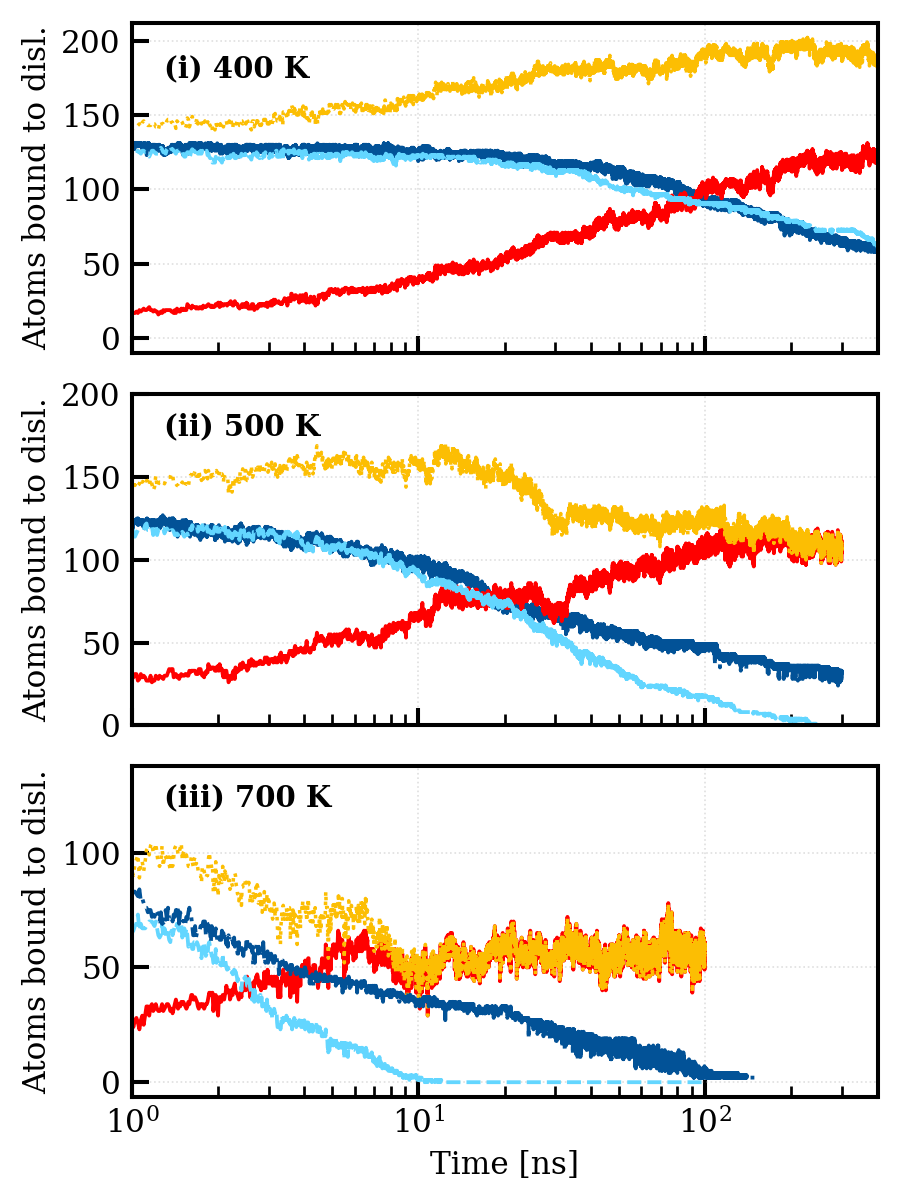
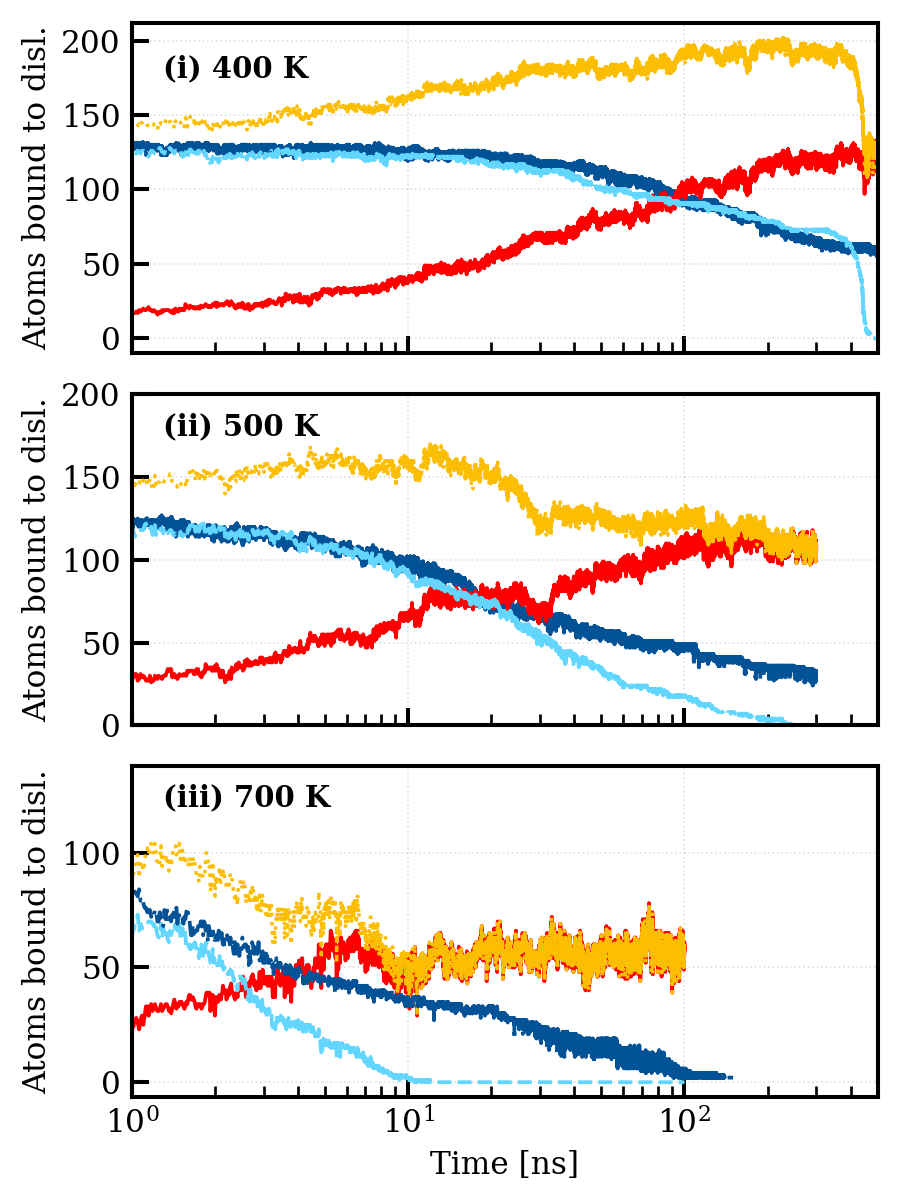
general fixes

diff --git a/5_Results.tex b/5_Results.tex
@@ -4,13 +4,17 @@
 
 % ----------------------------------------------------------------------------------
 \section{Vacancies}
+\label{Section:Vac_results}
 % ----------------------------------------------------------------------------------
 In Fig. \ref{Fig:1Vac_results} and \ref{Fig:2Vac_results} we can see the number of T and H atoms bound to the mono- and divacancies as a function of time and at different temperatures. 
 For comparison, the results of the monoisotopic, 'vacuum annealing', simulations are also shown. 
 We can see that at all three temperatures, T-removal from the monovacancy occurs at a higher rate when isotope exchange is used, compared to the monoisotopic cases.
-For the divacancies (Fig. \ref{Fig:2Vac_results}), the T-removal using isotope exchange occurs nearly as fast as in the monovacancy case, despite starting with nearly twice the amount T. 
-While the difference in both cases is more prominent at lower temperatures, it is noticeable also at 500 K, where removal through pure diffusion starts to play a significant role.
 Despite us aiming mainly for qualitative results, a semi-quantitative comparison reveals the T-removal rate to be around 50 times higher when employing isotope exchange compared to monoisotopic simulations in monovacancies. 
+For the isotope exchange case at 500 K, the normalised T-removal rate, $\delta_{\text{T}}$, was determined to be 0.009 atoms/ns.
+
+Compared to the monovacancies, T-removal using isotope exchange occurs in divacancies (Fig. \ref{Fig:2Vac_results}) at a slightly higher normalised T-removal rate of $\delta_{\text{T}} = 0.01$ atoms/ns.
+
+While the difference in both cases is more prominent at lower temperatures, it is noticeable also at 500 K, where removal through pure diffusion starts to play a significant role.
 
 \begin{figure}[!ht]
 \begin{subfigure}{.5\textwidth}
@@ -25,7 +29,7 @@ Despite us aiming mainly for qualitative results, a semi-quantitative comparison
   \caption{Linear time scale}
   %\label{fig:sub-second}
 \end{subfigure}
-\caption{Number of H and T atoms bound to the monovacancy for isotope exchange and monoisotopic diffusion simulations. The number of trapped T in the monovacancy decreases much faster in the simulations with isotope exchange, compared to the monoisotopic cases.}
+\caption{Number of H and T atoms bound to the monovacancy for isotope exchange and monoisotopic diffusion simulations. The number of trapped T in the monovacancy decreases much faster in the simulations with isotope exchange, compared to the monoisotopic cases. The linear time scale plots are shown for qualitative comparison only.}
  \label{Fig:1Vac_results} 
 \end{figure}
 
@@ -43,7 +47,7 @@ Despite us aiming mainly for qualitative results, a semi-quantitative comparison
   \caption{Linear time scale}
   %\label{fig:sub-second}
 \end{subfigure}
-   \caption{Number of H and T atoms bound to the divacancy for isotope exchange and monoisotopic diffusion simulations. Despite the nearly doubled number of T, the removal with isotope exchange occurs at a similar rate than in the monovacancy simulations.}
+   \caption{Number of H and T atoms bound to the divacancy for isotope exchange and monoisotopic diffusion simulations. Despite the nearly doubled number of T, the removal with isotope exchange occurs at a similar rate than in the monovacancy simulations. The linear time scale plots are shown for qualitative comparison only.}
    \label{Fig:2Vac_results} 
 \end{figure}
 
@@ -88,7 +92,7 @@ At 400 K, on the other hand, there is no significant difference between the two 
 
 Comparing the T-removal rates at 700 K, we can conclude that total T-removal occurs around 10 times faster in the isotope exchange case compared to the monoisotopic case.
 In comparison to the vacancy results in Fig. \ref{Fig:1Vac_results} and \ref{Fig:2Vac_results}, the overall T-removal rate for a dislocation appears to exceed that observed in the vacancies for both the isotope exchange and monoisotopic cases.
-E.g. for the isotope exchange cases at 500 K we have normalised average T-removal rates, $\delta_{\text{T}}$, of 0.003 and 0.01 atoms/ns for a dislocation and a monovacancy, respectively.
+The normalised T-removal rate for dislocations at 500 K was $\delta_{\text{T}} = 0.003$ atoms/ns, when isotope exchange was used.
 
 Fig. \ref{Fig:disloc_results} additionally reveals that the total number of H and T bound to the defect increases slightly during the isotope exchange simulation, possibly due to insufficient saturation runs. 
 
@@ -107,7 +111,7 @@ Fig. \ref{Fig:disloc_results} additionally reveals that the total number of H an
   \caption{Linear time scale}
   %\label{fig:sub-second}
 \end{subfigure}
-   \caption{Number of H and T atoms bound to the dislocation for isotope exchange and monoisotopic diffusion simulations}
+   \caption{Number of H and T atoms bound to the dislocation for isotope exchange and monoisotopic diffusion simulations. The linear time scale plots are shown for qualitative comparison only.}
    \label{Fig:disloc_results} 
 \end{figure}
 
@@ -119,8 +123,7 @@ Fig. \ref{Fig:disloc_results} additionally reveals that the total number of H an
 The grain boundary results are shown in Fig. \ref{Fig:GB_results}. 
 Similarly to the dislocation case, a significant increase in the T-removal rate can be observed when isotope exchange is used at temperatures of at least 500 K.
 The exact difference in removal rates was difficult to determine without excessive use of computing resources, but can be clearly seen from Fig. \ref{Fig:GB_results} to be several orders of magnitude higher for the isotope exchange simulations.
-
-The normalised T-removal rate at 500 K was around $\delta_{\text{T}} = 0.0017$ atoms/ns, i.e. close to six times lower than the corresponding value for the monovacancy and half that of the dislocation.
+The normalised T-removal rate at 500 K appears to be around $\delta_{\text{T}} = 0.0017$ atoms/ns.
 
 \begin{figure}[!ht]
 \begin{subfigure}{.5\textwidth}
@@ -135,7 +138,7 @@ The normalised T-removal rate at 500 K was around $\delta_{\text{T}} = 0.0017$ a
   \caption{Linear time scale}
   %\label{fig:sub-second}
 \end{subfigure}
-   \caption{Number of H and T atoms bound to the grain boundary for isotope exchange and monoisotopic diffusion simulations}
+   \caption{Number of H and T atoms bound to the grain boundary for isotope exchange and monoisotopic diffusion simulations. The linear time scale plots are shown for qualitative comparison only.}
    \label{Fig:GB_results} 
 \end{figure}
 
@@ -146,4 +149,8 @@ The normalised T-removal rate at 500 K was around $\delta_{\text{T}} = 0.0017$ a
 The isotope exchange mechanism has now been confirmed to occur in monovacancies and vacancy clusters. 
 The effect has also been observed in dislocations and grain boundaries, but is not as pronounced in these more extensive defects, probably due to their larger hydrogen trapping capacity and the almost continuous binding energy range of about 0 to 0.9 eV \cite{grigorev2015interaction}.
 
+Comparing the normalised T-removal rates of the various defect types, we see that the removal occurs fastest in vacancies ($\delta_{\text{T}} = 0.01$ atoms/ns) and slowest in grain boundaries ($\delta_{\text{T}} = 0.0017$ atoms/ns). 
+Dislocations ($\delta_{\text{T}} = 0.003$ atoms/ns) fell in between the other two, with a normalised removal rate almost twice that of the grain boundary, but less than half of the rate observed for the vacancy.
 
+The validity of the results presented in this thesis is discussed for the vacancy case in section \ref{Section:Vac_results}, but can be generalised to also apply for the other two defect types. 
+Although a direct comparison with experiments is difficult due to the small scale -- both time- and lengthwise -- of the simulations, the qualitative aspects of our results seem to agree with experimental studies such as \cite{alimov2011hydrogen}, \cite{roth2013hydrogen}, \cite{barton2014deuterium} and \cite{ahlgren2019hydrogen}. 

diff --git a/2_Theory.tex b/2_Theory.tex
@@ -9,7 +9,7 @@ At a subatomic level, nuclear fusion is governed by two separate fundamental int
 Due to their small size and the low number of protons, nuclei of elements lighter than nickel and iron can overcome the electromagnetic repulsion barrier and fuse into a single nucleus, typically releasing orders of magnitude more energy than any process involving chemical bonds.
 
 Since the nuclei have to be brought to within around $10^{-15}$ m from each other in order for the short-ranged strong interaction to outweigh the electromagnetic repulsion, the process of forcing together even the lightest nuclei requires substantial amounts of energy.  
-At the cores of stars, the immense pressure combined with temperatures of the order of $10^6$ K brings hydrogen atoms close enough for some of them to cross the repulsion barrier through the quantum mechanical effect of tunnelling \cite{clayton1983principles}.
+At the cores of stars, the immense pressure combined with temperatures of the order of $10^6$ K brings hydrogen atoms close enough for some of them to cross the repulsion barrier through the quantum mechanical effect of tunneling \cite{clayton1983principles}.
 Without the gravitational mass of a star compressing the fuel, however, we have to rely on various 'dirty tricks' to achieve conditions suitable for a self-sustaining fusion reaction. 
 Magnetic Confinement Fusion (MCF), seen generally as the most promising of such tricks, exploits the fact that charged particles can be manipulated using magnetic fields. 
 The fuel is heated to temperatures around $10^7$ K, at which point the electrons and nuclei of the fuel atoms will have separated, transitioning into plasma. 
@@ -108,8 +108,8 @@ In contrast to the vast majority of elements, the relative differences in mass b
 These mass differences result in, e.g. the isotopes having noticeably different diffusion rates.
 
 Out of these three isotopes, tritium is the by far scarcest. 
-Having a half-life of only 12.3 years, it is formed only in miniscule amounts in the atmosphere through interactions with cosmic rays.
-In fusion reactors, where tritium will be present in relative abundance, the trapping of this radioactive substance into wall materials can over time become a safety issue; although tritium is a low-energy beta emitter and thus not externally harmful to humans, it is easily inhaled, ingested or absorbed through the skin, potentialy causing radiation damage to internal organs and tissues \cite{tritiumHealth}.
+Having a half-life of only 12.3 years, it is formed only in minuscule amounts in the atmosphere through interactions with cosmic rays.
+In fusion reactors, where tritium will be present in relative abundance, the trapping of this radioactive substance into wall materials can over time become a safety issue; although tritium is a low-energy beta emitter and thus not externally harmful to humans, it is easily inhaled, ingested or absorbed through the skin, potentially causing radiation damage to internal organs and tissues \cite{tritiumHealth}.
 In addition to the safety concern associated with handling and maintaining tritium infused components, there is also an obvious fuel economical incentive of retrieving the embedded tritium.
 
 The proposed methods of detrapping and extracting hydrogen isotopes from materials typically focus on annealing, i.e. heating and slowly cooling a material, to facilitate the detrapping and diffusion of hydrogen atoms. 

diff --git a/1_Introduction.tex b/1_Introduction.tex
@@ -12,7 +12,7 @@ The plasma-facing surfaces of a fusion reactor are therefore subject to a consta
 Due to their electrical neutrality, neutrons interact only to a negligible degree with electrons, limiting their interactions with atoms to the highly improbable collisions with atomic nuclei. 
 Neutrons can thus penetrate several meters into the reactor walls, extending the damage from the surface, deep into the bulk material. 
 
-Chosen for its high resistance against erosion by energetic ions and neutrons, tungsten (W) is the primary armour material candidate for the divertor of the groundbreaking ITER tokamak being constructed in southern France \cite{hirai2013iter}. % [brief description of divertors and/or ITER?]
+Chosen for its high resistance against erosion by energetic ions and neutrons, tungsten (W) is the primary armour material candidate for the divertor of the groundbreaking ITER tokamak being constructed in southern France \cite{hirai2013iter}.
 It has, however, been shown that hydrogen isotopes can easily diffuse deep into bulk W, while crystallographic defects, such as those produced by the neutron radiation, enhance the retention of hydrogen within the material. \cite{tanabe2014review} 
 This trapping mechanism tends to lead to an accumulation of hydrogen, including the radioactive isotope tritium (T), from the fusion fuel into the plasma-facing reactor components, rendering them radioactive over time. 
 The inventory of embedded tritium is, therefore, a critical safety concern, but also a matter of fuel economy, since tritium is extremely rare and among the most expensive substances found on Earth.
@@ -26,7 +26,7 @@ Conveniently, it has been shown \cite{alimov2011hydrogen, roth2013hydrogen, bart
 This method makes use of the spontaneous replacement of tritium with a cheaper and safer isotope, protium (H, $^1_1$H), in a process aptly referred to as 'isotope exchange'. 
 Experiments conducted with the non-radioactive hydrogen isotope deuterium, have indicated a near-perfect D removal after 24 h of annealing at 520 K under a H$_2$ atmosphere, while a similar removal rate using traditional vacuum annealing would require temperatures of around 700 K. \cite{ahlgren2019hydrogen}
 
-Experimental studies of hydrogen isotope exchange in tugsten have been conducted by e.g. Alimov \textit{et al.} \cite{alimov2011hydrogen}, Roth \textit{et al.}  \cite{roth2013hydrogen}, Barton \textit{et al.} \cite{barton2014deuterium} and Ahlgren \textit{et al.} \cite{ahlgren2019hydrogen}. 
+Experimental studies of hydrogen isotope exchange in tungsten have been conducted by e.g. Alimov \textit{et al.} \cite{alimov2011hydrogen}, Roth \textit{et al.}  \cite{roth2013hydrogen}, Barton \textit{et al.} \cite{barton2014deuterium} and Ahlgren \textit{et al.} \cite{ahlgren2019hydrogen}. 
 The phenomenon has also been modelled on a macroscopic scale by Hodille \textit{et al.} \cite{hodille2016study} using Macroscopic Rate Equation models, based on experimental results as well as Density Functional Theory (DFT) data on the behaviour of hydrogen near tungsten monovacancies. 
 The isotope exchange occurring around a single crystal defect is likely to occur on a timescale of nano- to microseconds, but such scales are far beyond the reach of current DFT methods, while tools such as Rate Equations lack the atomic level insight to the studied mechanism.
 

diff --git a/3_Methods.tex b/3_Methods.tex
@@ -108,7 +108,7 @@ cloud/.style = {draw, ellipse,fill=red!20, node distance=3cm,
 \draw [>=latex,->] (m-7-1.south) -- node[right] {yes}(m-8-1);
 \end{tikzpicture}
 \endgroup
-\caption{A flowchart representation of a typical Molecular Dynamics simulation. Above, $f$ and $g$ refer to two different functions of the timestep and the acceleration. In the most simple case these would be $f(\mathbf{a}_i,\Delta t) = \mathbf{v}_i\Delta t + \mathbf{a}_i\Delta t^2$ and $g(\mathbf{a}_i,\Delta t) = \mathbf{a}_i\Delta t$, respectively.} 
+\caption{A flowchart representation of a typical Molecular Dynamics simulation. Above, $f$ and $g$ refer to two different functions of the time step and the acceleration. In the most simple case these would be $f(\mathbf{a}_i,\Delta t) = \mathbf{v}_i\Delta t + \mathbf{a}_i\Delta t^2$ and $g(\mathbf{a}_i,\Delta t) = \mathbf{a}_i\Delta t$, respectively.} 
 \label{MD-schema}
 \end{center}
 \end{figure}
@@ -156,7 +156,7 @@ This fact can be exploited by dividing the computational load across multiple pr
 Parallellisation on $P$ processors can be performed using three principal algorithms; \textit{atom-}, \textit{spatial-} and \textit{force-decomposition} 
 \cite{fincham1987parallel}.
 
-The atom-decompositon algorithm includes appointing $N/P$ atoms to each processor and requires \textit{all-to-all} communication of forces between processors and therefore it scales as $O(N)$, independently of $P$. 
+The atom-decomposition algorithm includes appointing $N/P$ atoms to each processor and requires \textit{all-to-all} communication of forces between processors and therefore it scales as $O(N)$, independently of $P$. 
 The force-decomposition algorithm, on the other hand, divides the cell into three-dimensional boxes, with atoms being re-appointed to the corresponding processor each time they enter a new box. 
 This method limits the communication required to only neighbouring processors, giving a theoretical scaling of $O(N/P)$ for largely parallel simulations.
 The spatial-decomposition algorithm, finally, involves appointing force calculation loops to separate processors.

diff --git a/thesis.tex b/thesis.tex
@@ -31,9 +31,7 @@
 %-------------------------------------------------------------------------------
 % TITLE PAGE & ABSTRACT PAGE
 %-------------------------------------------------------------------------------
-\title{Isotope Exchange as a Tritium Removal Tool in Tungsten -- A Computational Study}
 \title{A Computational Study of Isotope Exchange as a Tritium Removal Tool in Tungsten}
-%\title{A Computational Study of Hydrogen Isotope Exchange in Tungsten}
 \author{Otto Lindblom}
 \date{\today}
 \level{Master's thesis}
@@ -43,8 +41,8 @@
 \department{Department of Physics}
 \keywords{hydrogen, tritium, isotope exchange, molecular dynamics, tungsten}
 \address{P.O. 64 (Gustaf H\"{a}llstr\"{o}ms gata 2a)\\00014 University of Helsinki}
-\prof{Tommy Ahlgren}
-\censors{Censor1}{Censor2}{}
+\prof{Dr. Tommy Ahlgren}
+\censors{Prof. Kai Nordlund}{Dr. Tommy Ahlgren}{}
 \depositeplace{Kumpula Science Library}
 \additionalinformation{}
 \classification{}
@@ -140,7 +138,7 @@ Käyttämällä pienikokoisia järjestelmiä, olemme onnistuneet simuloimaan iso
 %-------------------------------------------------------------------------------
 %\nomenclature{$p$}{Pressure \nomunit{atm}}
 %\nomenclature{$V$}{Volume \nomunit{\AA$^3$}}
-%\nomenclature{$T$}{Temperature \nomunit{K}}
+\nomenclature{$\delta_{\text{T}} $}{Normalised average tritium removal rate \nomunit{Atoms/ns}}
 \nomenclature{$V$}{Potential energy \nomunit{eV}} 
 \nomenclature{$\mathbf{r}_i$}{Position vector of $i$th atom \nomunit{\AA}}
 \nomenclature{$\mathbf{F}_i$}{Force acting on $i$th atom \nomunit{ev/\AA}}

diff --git a/4_Simulations.tex b/4_Simulations.tex
@@ -44,9 +44,8 @@ Depending on the geometry of the defect, this parameter had a value of 14...40 \
 As we intend to verify that isotope exchange indeed results in more effective tritium removal than conventional methods, setups for comparison simulations were constructed by omitting the added H and only simulating the spontaneous diffusion of T away from the defect. 
 These monoisotopic systems are used for emulating vacuum annealing conditions.
 
-Finally, all sets of isotope exchange and monoisotope simulations were run at 400, 500 and 700 K, to qualitatively study the temperature dependence of the phenomenon.
-To allow for shorter wall-times, the simulations at 400 and 500 K where cut off when all T had been detrapped in the isotope exchange case.
-At 700 K, however, the simulations where continued to 1000 ns for each defect type, allowing us to compare the T-removal rates for not only the isotope exchange versus monoisotopic cases, but across defect types.   
+Finally, all sets of isotope exchange and monoisotope simulations were run at 400, 500 and 700 K, to qualitatively and semi-quantitatively study the temperature dependence of the phenomenon.
+To allow for shorter wall-times, the simulations where cut off when all T had been detrapped in the isotope exchange case.  
 
 
 % --------------- IsoEx MD ------------------------------------------------------------------------------------

diff --git a/plotting-scripts/plot_disloc_isoEx_comp.py b/plotting-scripts/plot_disloc_isoEx_comp.py
@@ -32,7 +32,7 @@ print('Drawing figures ...')
 fsize = [6.0, 8.0]
 
 # Upper x-axis limit [ns]
-xulim = 400.0
+xulim = 500.0
 
 # axis labels
 ylbl = 'Atoms bound to disl.'
